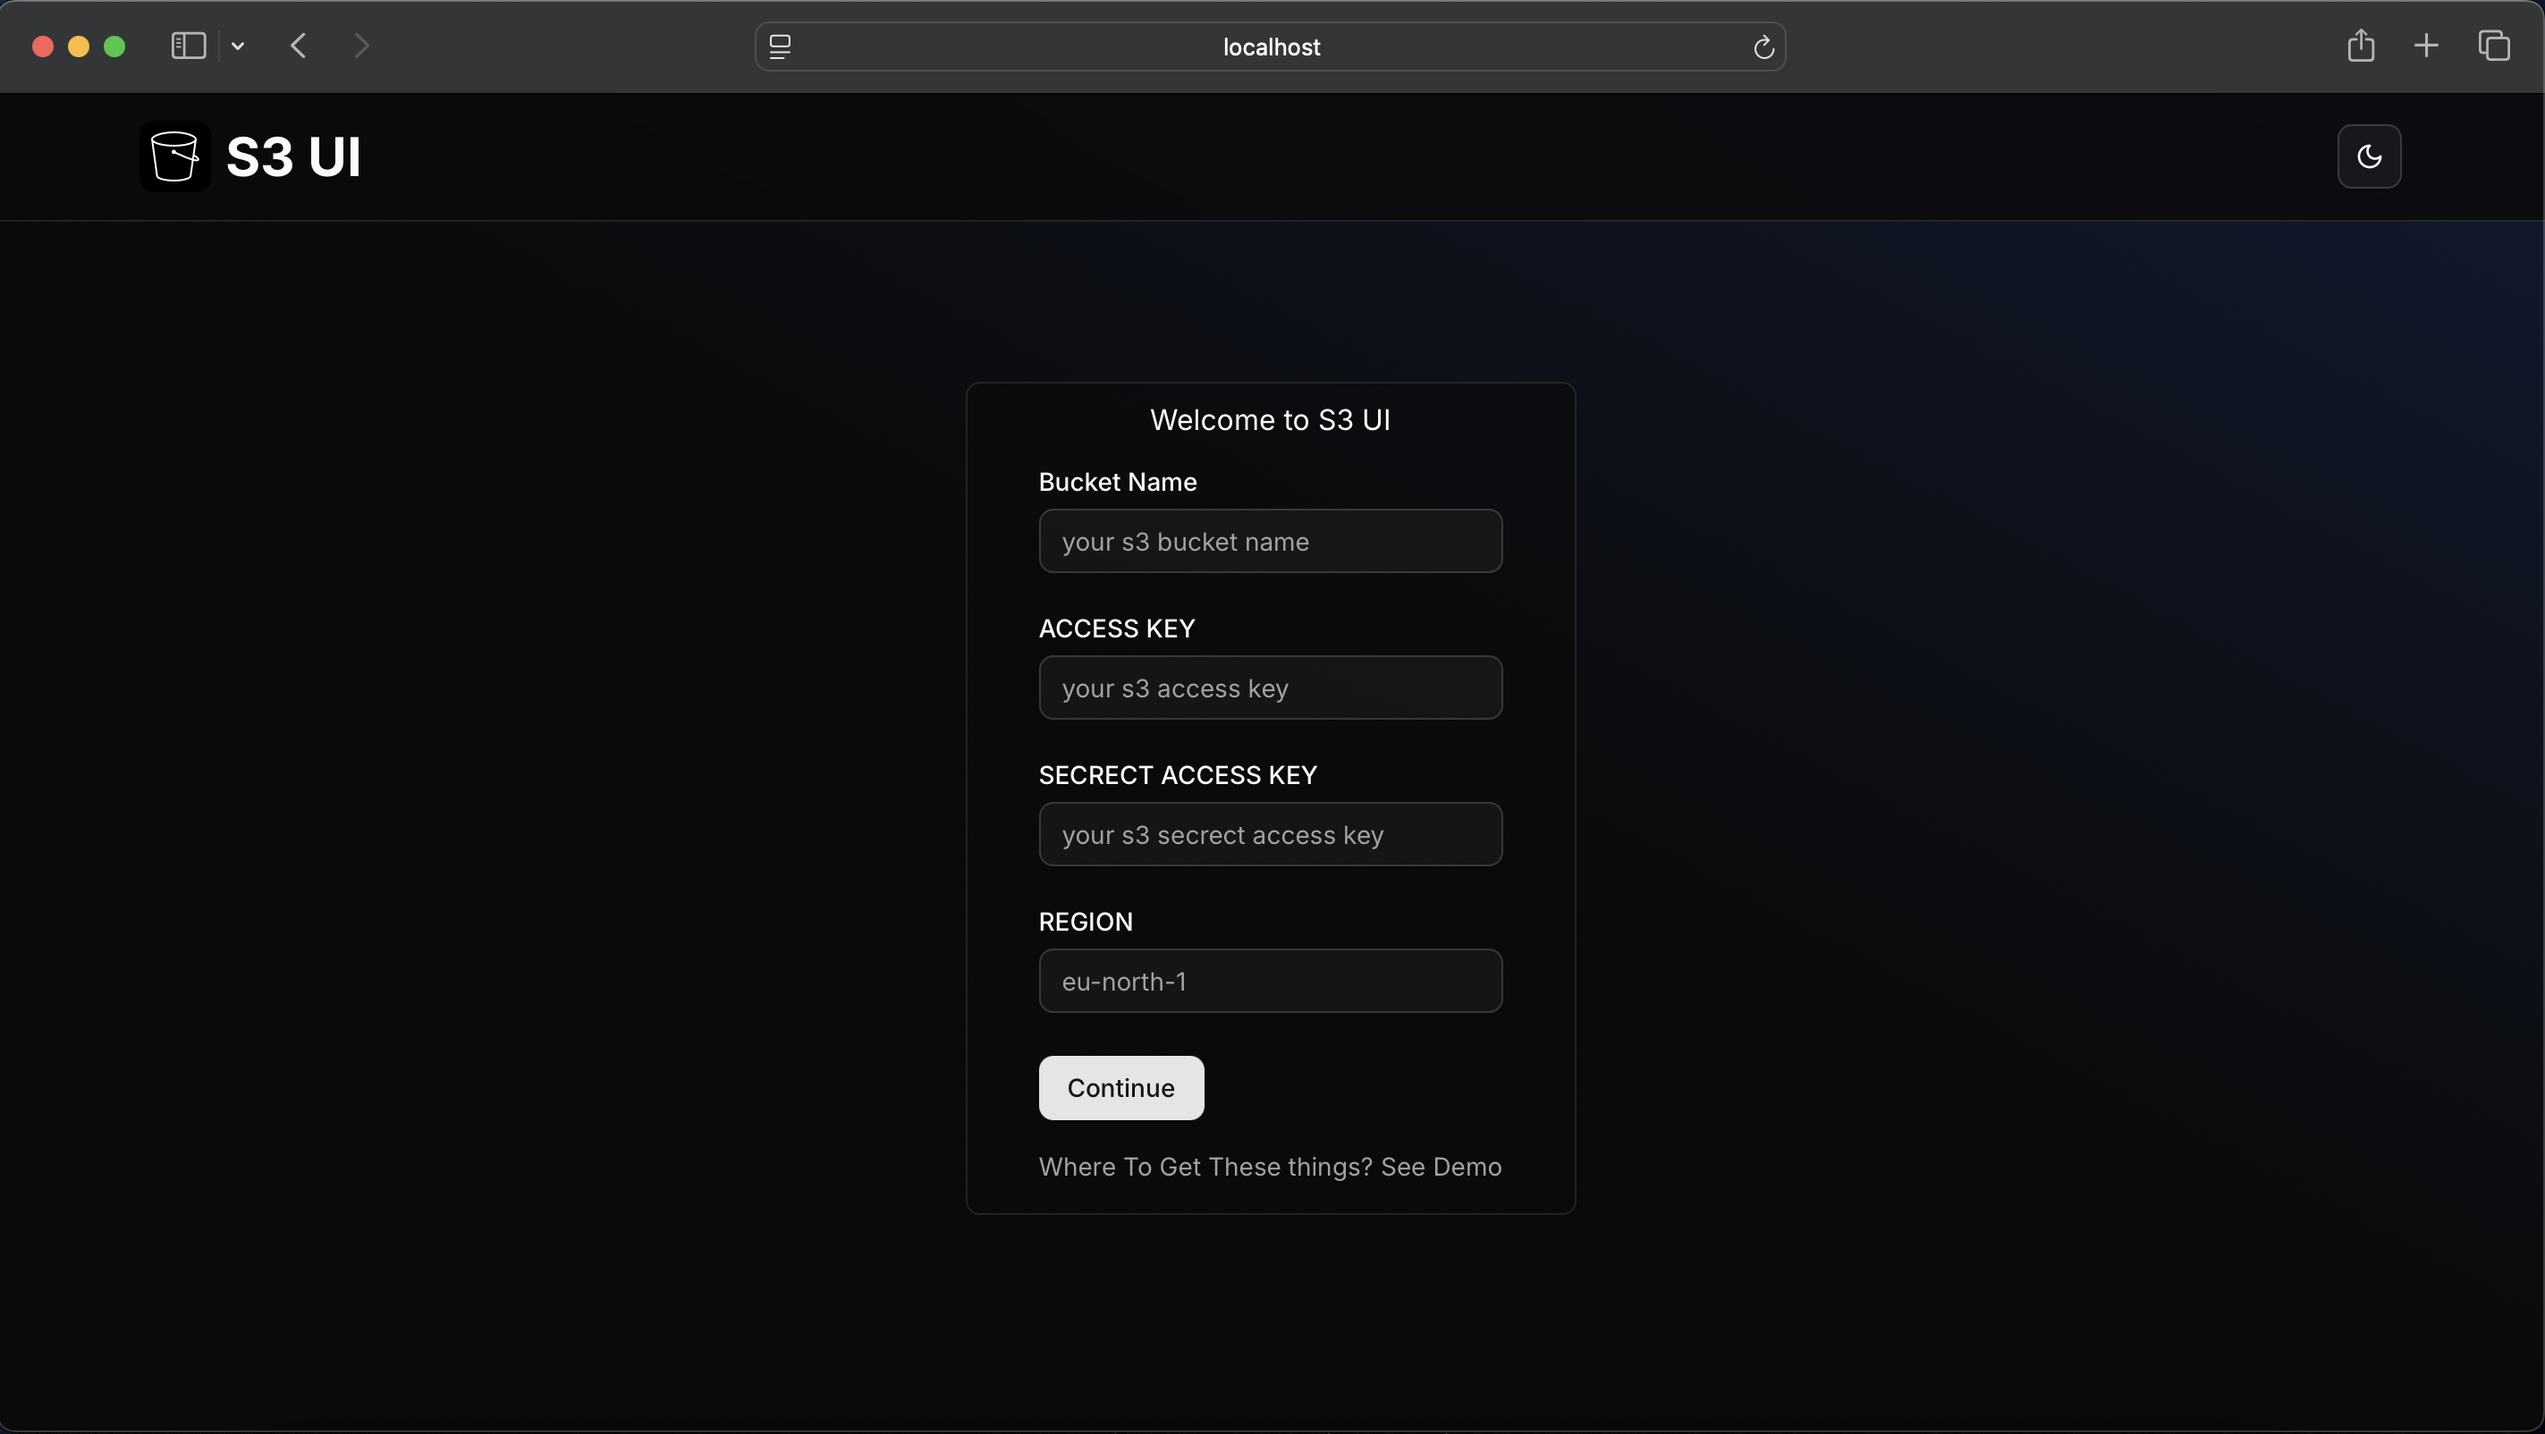
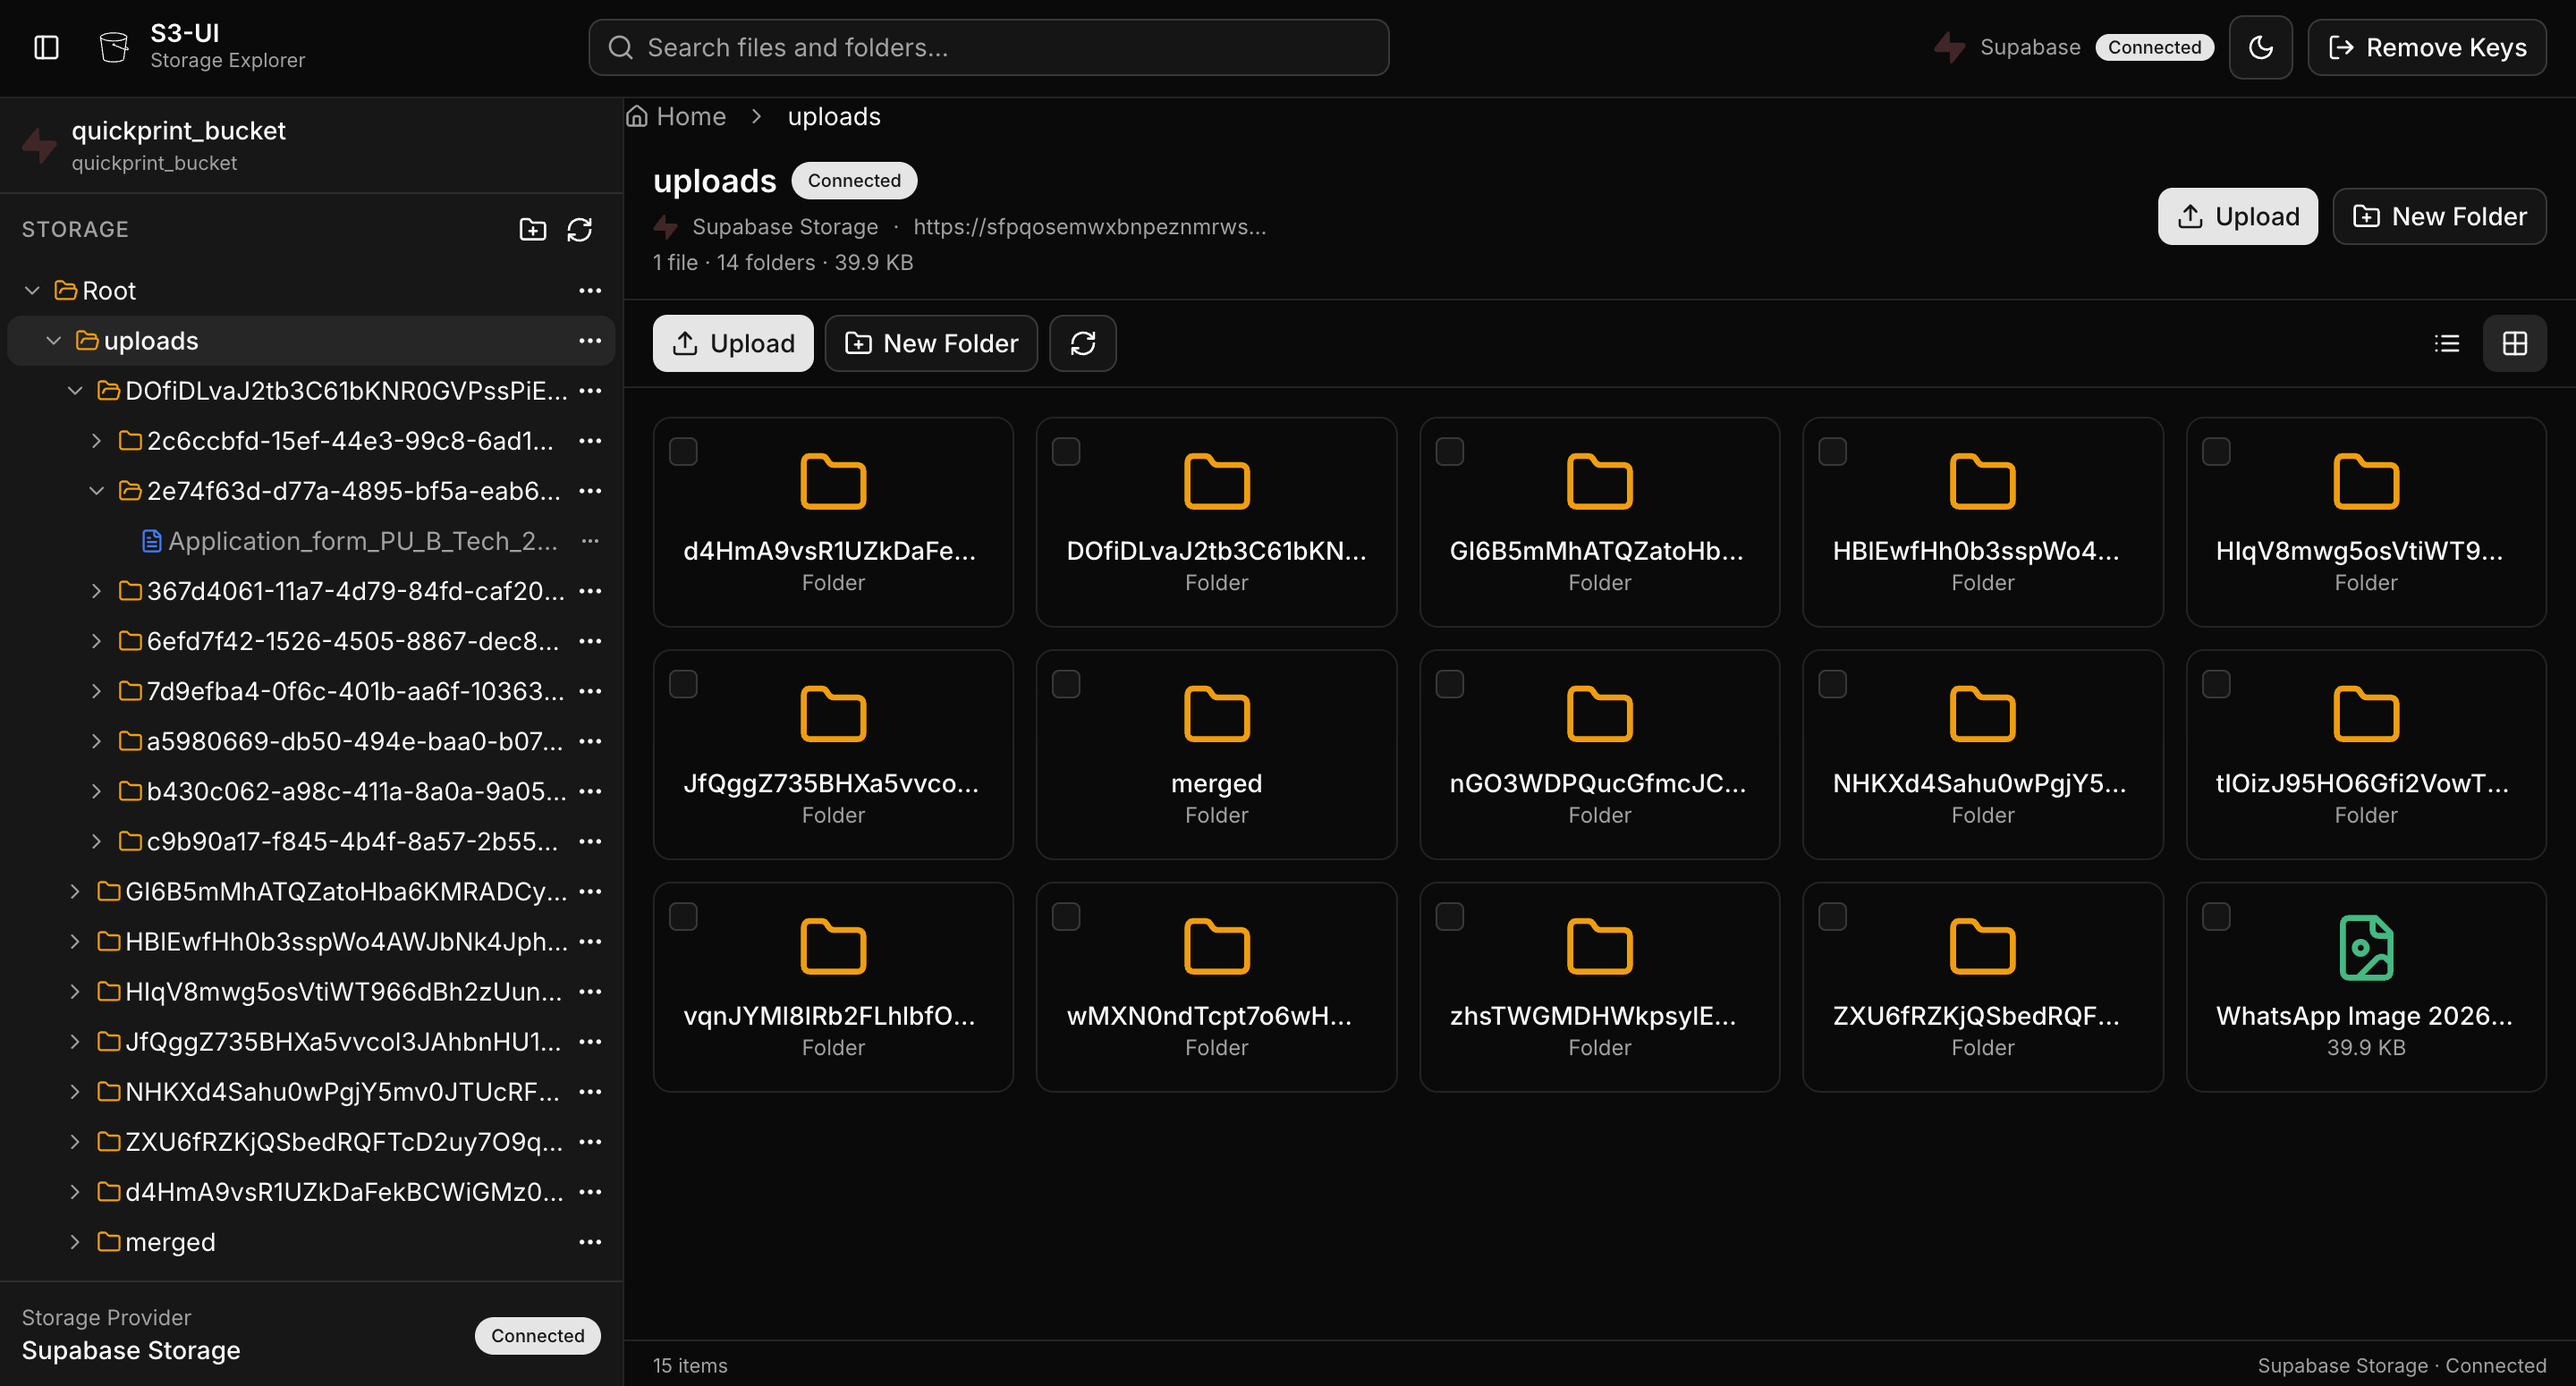
new section added in one page

diff --git a/components/home-about-section.tsx b/components/home-about-section.tsx
@@ -1,0 +1,101 @@
+import Image from "next/image";
+import {
+  Cloud,
+  FolderTree,
+  Lock,
+  Upload,
+} from "lucide-react";
+
+export function HomeAboutSection() {
+  return (
+    <section className="w-full border-t border-border/60 bg-background py-16 md:py-24">
+      <div className="mx-auto grid max-w-6xl grid-cols-1 items-center gap-12 px-4 lg:grid-cols-2 lg:gap-16">
+        <div className="space-y-6">
+          <div className="inline-flex items-center rounded-full border border-border bg-muted/50 px-3 py-1 text-xs font-medium text-muted-foreground">
+            Storage Explorer
+          </div>
+
+          <h2 className="text-3xl font-semibold tracking-tight md:text-4xl">
+            A modern file manager for S3-compatible storage
+          </h2>
+
+          <p className="text-base leading-relaxed text-muted-foreground md:text-lg">
+            S3-UI turns any S3-compatible bucket into a polished cloud storage
+            workspace. Connect once, then browse folders, upload files, preview
+            documents, and manage objects — without touching the AWS console.
+          </p>
+
+          <ul className="space-y-4">
+            <li className="flex gap-3">
+              <span className="mt-0.5 flex h-8 w-8 shrink-0 items-center justify-center rounded-lg bg-primary/10 text-primary">
+                <FolderTree className="h-4 w-4" />
+              </span>
+              <div>
+                <p className="font-medium">VS Code-style explorer</p>
+                <p className="text-sm text-muted-foreground">
+                  Sidebar tree, breadcrumbs, list and grid views, and a
+                  resizable layout built for real folder navigation.
+                </p>
+              </div>
+            </li>
+            <li className="flex gap-3">
+              <span className="mt-0.5 flex h-8 w-8 shrink-0 items-center justify-center rounded-lg bg-primary/10 text-primary">
+                <Cloud className="h-4 w-4" />
+              </span>
+              <div>
+                <p className="font-medium">Works with your provider</p>
+                <p className="text-sm text-muted-foreground">
+                  Amazon S3, Supabase Storage, Cloudflare R2, MinIO, and any
+                  other S3-compatible endpoint.
+                </p>
+              </div>
+            </li>
+            <li className="flex gap-3">
+              <span className="mt-0.5 flex h-8 w-8 shrink-0 items-center justify-center rounded-lg bg-primary/10 text-primary">
+                <Upload className="h-4 w-4" />
+              </span>
+              <div>
+                <p className="font-medium">Full file operations</p>
+                <p className="text-sm text-muted-foreground">
+                  Upload, download, create folders, delete, preview, search, and
+                  inspect file details from one interface.
+                </p>
+              </div>
+            </li>
+            <li className="flex gap-3">
+              <span className="mt-0.5 flex h-8 w-8 shrink-0 items-center justify-center rounded-lg bg-primary/10 text-primary">
+                <Lock className="h-4 w-4" />
+              </span>
+              <div>
+                <p className="font-medium">Your keys stay in your browser</p>
+                <p className="text-sm text-muted-foreground">
+                  Credentials are saved only in local storage on your device —
+                  never on our servers.
+                </p>
+              </div>
+            </li>
+          </ul>
+        </div>
+
+        <div className="mx-auto w-full max-w-lg lg:mx-0">
+          <Image
+            src="/home.png"
+            alt="S3-UI file explorer"
+            width={2880}
+            height={1550}
+            className="w-full rounded-xl border border-border/60 shadow-lg dark:hidden"
+            priority
+          />
+          <Image
+            src="/home_dark.png"
+            alt="S3-UI file explorer"
+            width={2880}
+            height={1550}
+            className="hidden w-full rounded-xl border border-border/60 shadow-lg dark:block"
+            priority
+          />
+        </div>
+      </div>
+    </section>
+  );
+}

diff --git a/components/home-preview-image.tsx b/components/home-preview-image.tsx
@@ -1,0 +1,50 @@
+"use client";
+
+import Image from "next/image";
+import { useTheme } from "next-themes";
+import { useEffect, useState } from "react";
+
+export function HomePreviewImage() {
+  const { resolvedTheme } = useTheme();
+  const [mounted, setMounted] = useState(false);
+
+  useEffect(() => setMounted(true), []);
+
+  const src =
+    mounted && resolvedTheme === "dark" ? "/home_dark.png" : "/home.png";
+
+  return (
+    <div className="relative mx-auto w-full max-w-lg lg:mx-0 lg:max-w-none overflow-hidden">
+      <div
+        className="pointer-events-none absolute -inset-6 overflow-hidden rounded-[2rem] bg-gradient-to-br from-blue-600/15 via-sky-500/10 to-violet-500/10 blur-2xl"
+        aria-hidden="true"
+      />
+
+      <div className="relative overflow-hidden rounded-b-3xl">
+        <div className="relative aspect-[2880/1480] w-full">
+          <Image
+            src={src}
+            alt="S3-UI file explorer"
+            fill
+            sizes="(max-width: 1024px) 90vw, 540px"
+            className="object-cover object-top"
+            priority
+          />
+
+          <div
+            className="pointer-events-none absolute inset-x-0 top-0 z-10 rounded-t-2xl border border-b-0 border-border/70 bg-card/5 p-3 pb-0 shadow-2xl"
+            style={{ height: "72%" }}
+            aria-hidden="true"
+          >
+            <div className="h-full rounded-t-xl border border-b-0 border-border/50" />
+          </div>
+
+          <div
+            className="pointer-events-none absolute inset-x-0 bottom-0 z-20 h-24 bg-gradient-to-t from-background via-background/95 to-transparent"
+            aria-hidden="true"
+          />
+        </div>
+      </div>
+    </div>
+  );
+}

diff --git a/app/page.tsx b/app/page.tsx
@@ -4,6 +4,7 @@ import S3KeysForm from "@/components/s3keysform";
 import { ArrowUp, ExternalLink, GithubIcon } from "lucide-react";
 import Image from "next/image";
 import CodeBlock from "@/components/CodeBlock";
+import { HomeAboutSection } from "@/components/home-about-section";
 
 export default function Home() {
   return (
@@ -36,6 +37,8 @@ export default function Home() {
           </div>
         </main>
       </section>
+
+      <HomeAboutSection />
 
       {/* DOCS */}
       <section id="demo" className="w-full py-10">
